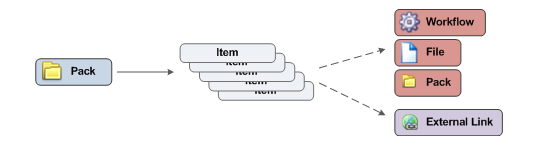
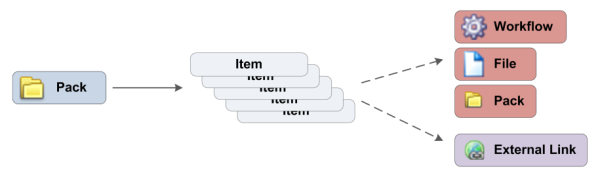
- Added routes etc for 'packs' tab on user profile - Improved resolution of packs image
git-svn-id: http://myexperiment.rubyforge.org/svn/trunk@1440 4f7b4649-9ca9-420a-81b3-55a188e4d46f

Changed region(s): [[0.0, 0.274, 0.9814, 0.9589], [0.684, 0.0548, 0.9517, 0.6849], [0.5948, 0.3836, 0.684, 0.4658]]

diff --git a/app/controllers/users_controller.rb b/app/controllers/users_controller.rb
@@ -5,7 +5,7 @@
 
 class UsersController < ApplicationController
 
-  contributable_actions = [:workflows, :files, :blogs, :forums]
+  contributable_actions = [:workflows, :files, :packs, :blogs, :forums]
   show_actions = [:show, :news, :friends, :groups, :credits, :tags] + contributable_actions
 
   before_filter :login_required, :except => [:index, :new, :create, :search, :all, :confirm_email, :forgot_password, :reset_password] + show_actions
@@ -80,6 +80,11 @@ class UsersController < ApplicationController
 
   def files
     @tab = "Files"
+    render :action => 'show'
+  end
+  
+  def packs
+    @tab = "Packs"
     render :action => 'show'
   end
 

diff --git a/config/routes.rb b/config/routes.rb
@@ -137,7 +137,7 @@ ActionController::Routing::Routes.draw do |map|
   map.connect 'users/forgot_password', :controller => "users", :action => "forgot_password"
   map.connect 'users/reset_password/:reset_code', :controller => "users", :action => "reset_password"
   
-  [ 'news', 'friends', 'groups', 'workflows', 'files', 'forums', 'blogs', 'credits', 'tags' ].each do |tab|
+  [ 'news', 'friends', 'groups', 'workflows', 'files', 'packs', 'forums', 'blogs', 'credits', 'tags' ].each do |tab|
     map.connect "users/:id/#{tab}", :controller => 'users', :action => tab
   end
   
